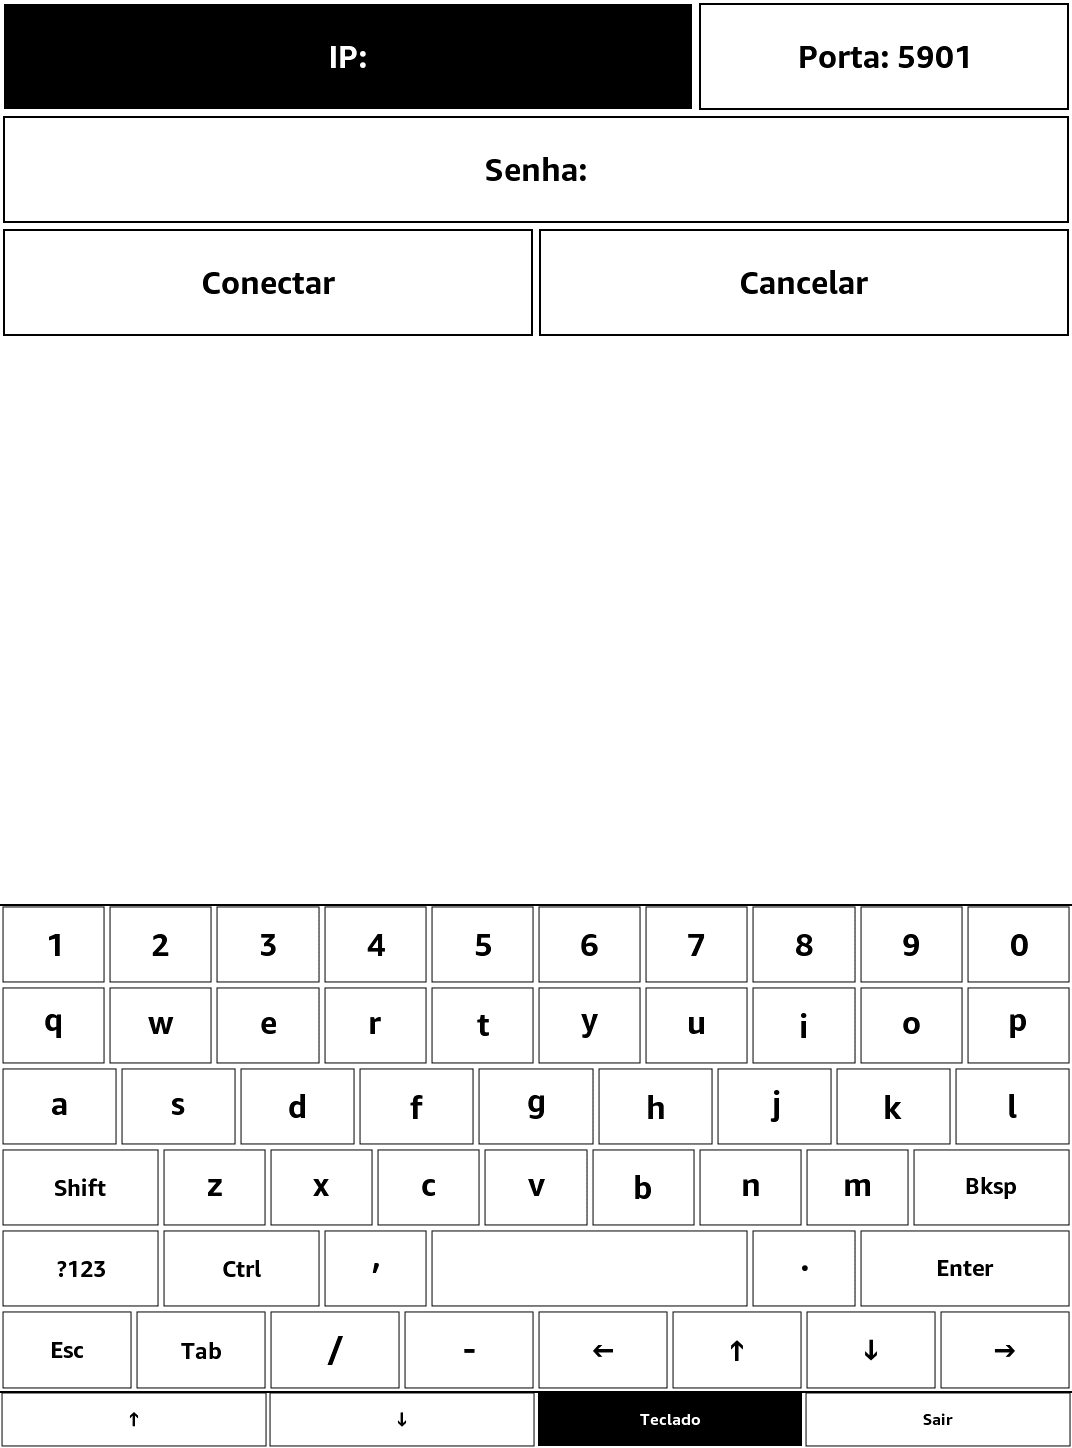
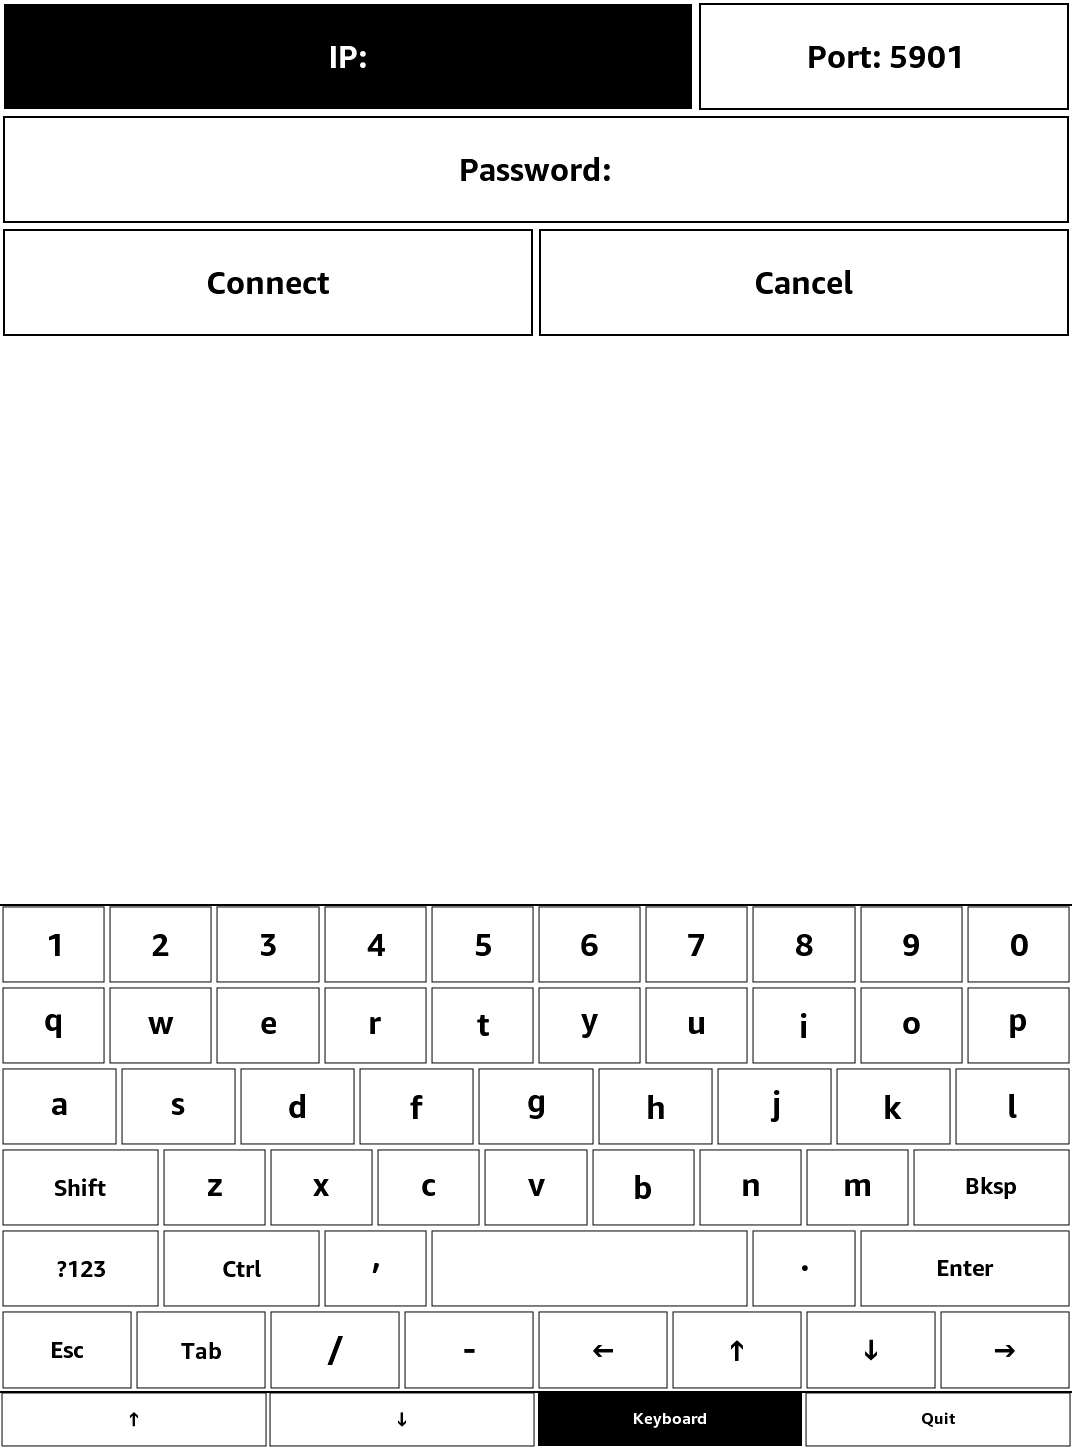
Screenshots do README em inglês; versões PT ficam com o README pt-BR
O README principal (inglês) mostrava a UI em português nos prints do
tour — inconsistente desde que a UI ganhou inglês. Todas as 5 telas
recapturadas do device com KINDOW_LANG=en (lista, formulário, sessão,
menu, erro — menu e formulário navegados por toque com captura
contínua); os nomes-base agora são as versões em inglês, e as
capturas em português viraram *-pt.png, referenciadas só pelo
docs/README.pt-BR.md. Remove session.png (print antigo do Mousepad,
sem referência desde o tour novo).

diff --git a/docs/README.pt-BR.md b/docs/README.pt-BR.md
@@ -43,16 +43,16 @@ biblioteca do próprio Kindle. Sem cabos, sem hardware extra.
 
 | Tela de conexão | Nova conexão |
 |:---:|:---:|
-| <img src="images/connect.png" width="380" alt="Tela de conexão: lista de servidores salvos, botão de adicionar, barra do rodapé"> | <img src="images/form.png" width="380" alt="Formulário de nova conexão: campos de IP, porta e senha com o teclado virtual"> |
+| <img src="images/connect-pt.png" width="380" alt="Tela de conexão: lista de servidores salvos, botão de adicionar, barra do rodapé"> | <img src="images/form-pt.png" width="380" alt="Formulário de nova conexão: campos de IP, porta e senha com o teclado virtual"> |
 | *Servidores salvos, mais recente primeiro. Um toque reconecta; "+" adiciona um novo.* | *IP, porta e senha opcional de VNC, digitados no teclado embutido.* |
 
 | Sessão | Menu |
 |:---:|:---:|
-| <img src="images/session-files.png" width="380" alt="Uma sessão: o gerenciador de arquivos do Pi com taskbar e o teclado virtual"> | <img src="images/menu.png" width="380" alt="O painel de menu: pares de zoom, passo de scroll, desconectar, status e sair"> |
+| <img src="images/session-files-pt.png" width="380" alt="Uma sessão: o gerenciador de arquivos do Pi com taskbar e o teclado virtual"> | <img src="images/menu-pt.png" width="380" alt="O painel de menu: pares de zoom, passo de scroll, desconectar, status e sair"> |
 | *O desktop do Pi com o teclado aberto. A barra do rodapé está sempre disponível.* | *Controles de zoom, passo do scroll, desconectar, status da conexão e sair.* |
 
 <div align="center">
-<img src="images/error.png" width="380" alt="Tela de erro: não foi possível conectar, com o motivo e um botão de voltar">
+<img src="images/error-pt.png" width="380" alt="Tela de erro: não foi possível conectar, com o motivo e um botão de voltar">
 
 *Quando uma conexão falha, o app avisa — e diz o porquê — enquanto continua tentando
 em segundo plano.*
